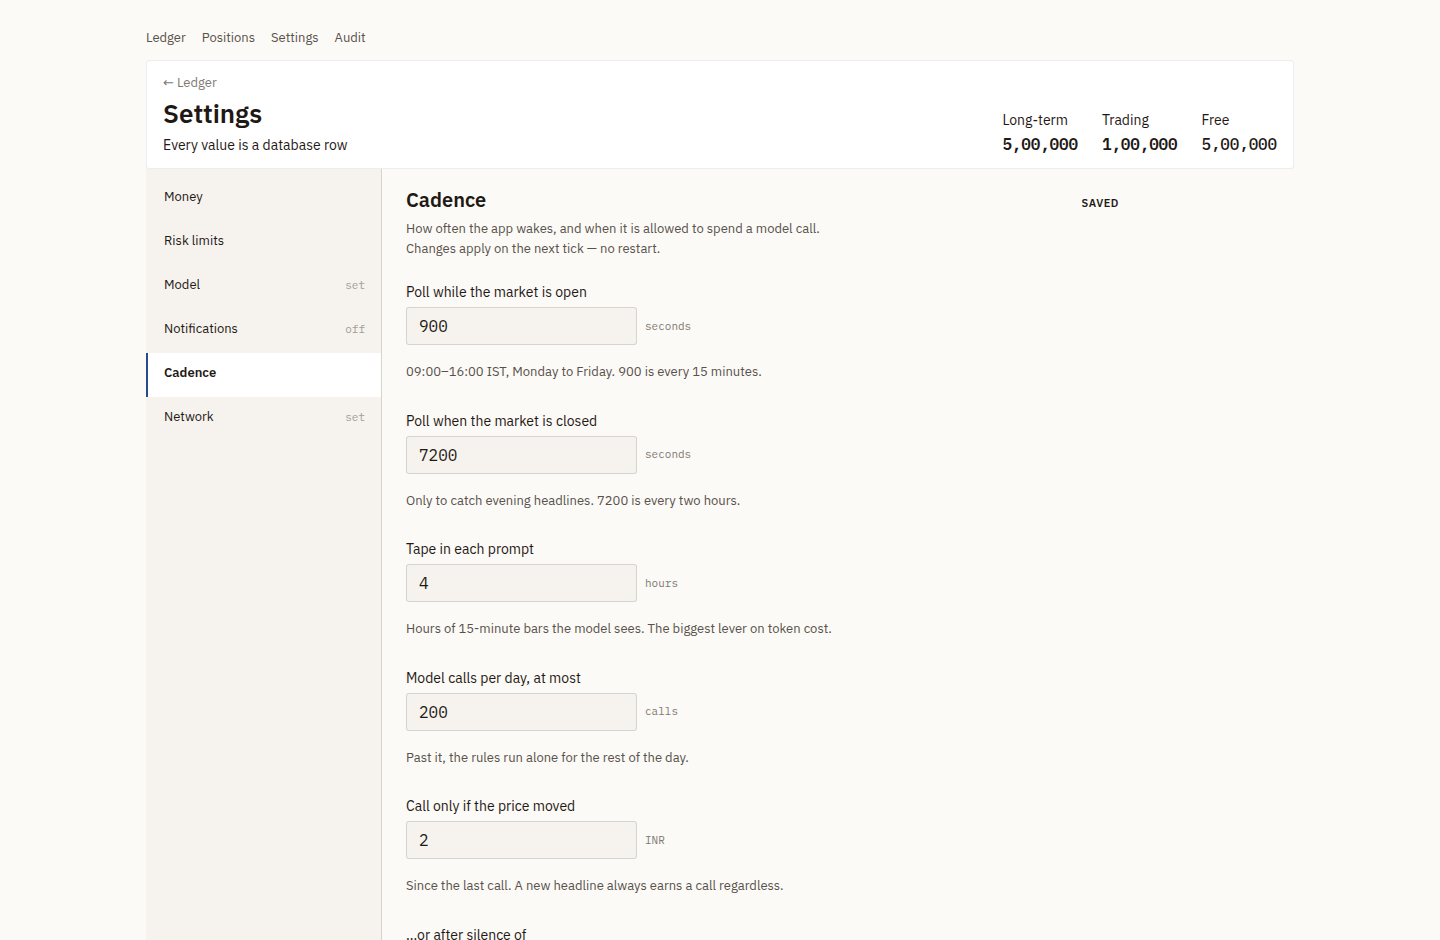
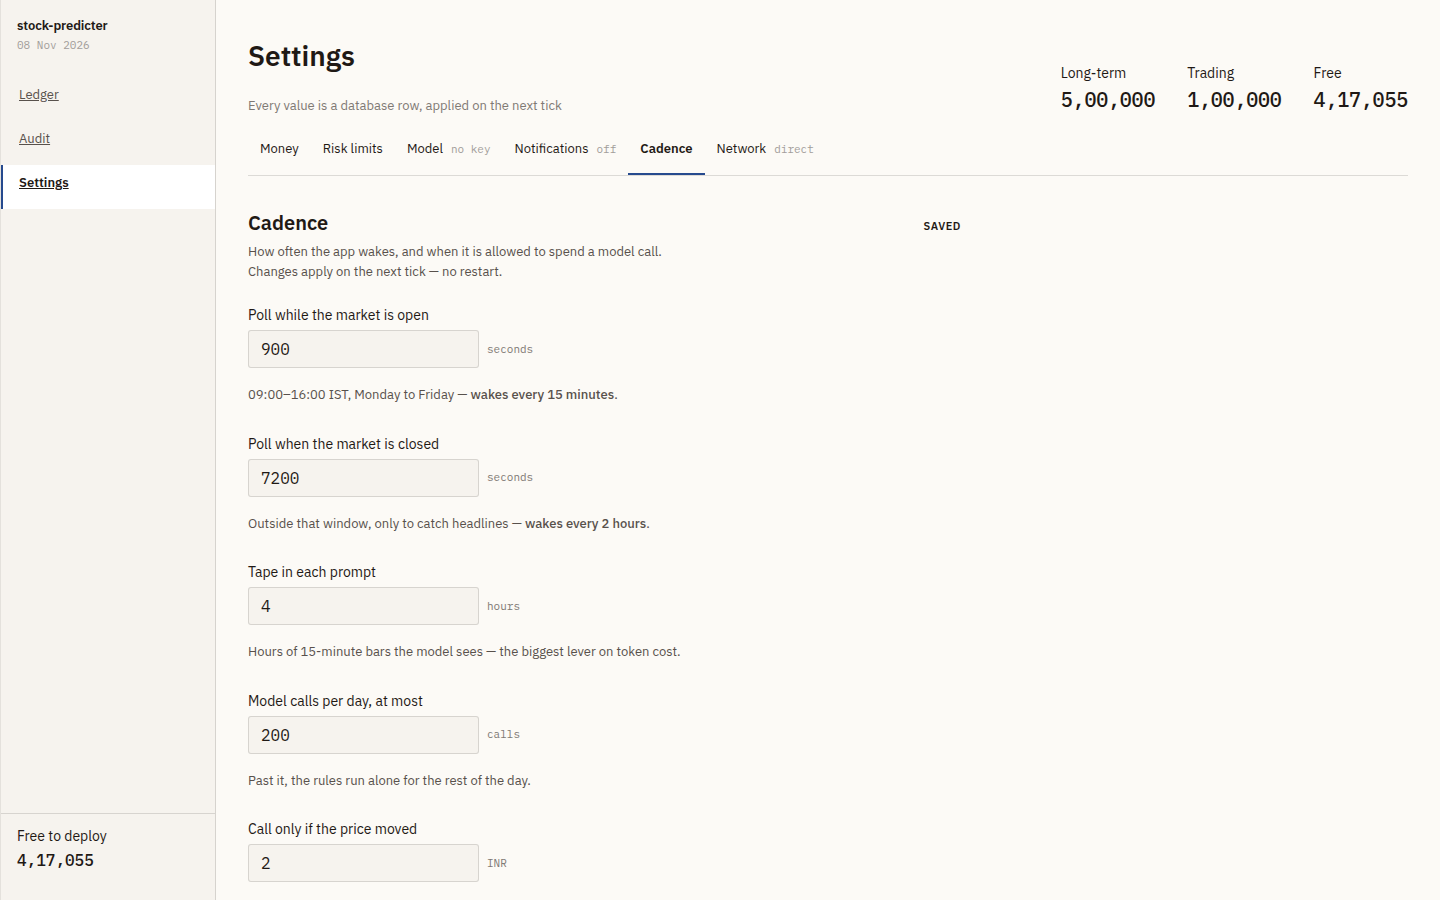
docs: refresh every screenshot for the redesigned pages

diff --git a/README.md b/README.md
@@ -50,7 +50,9 @@ AMFI (India) ───┤ mutual fund NAV                                       
 
 ## Screens
 
-**Ledger** — the portfolio strip, holdings with their latest signal, search-and-add, recent fills.
+**Ledger** — a rail with the free cash always visible, then the whole book: what you paid, what it is
+worth now, the P&L on each holding and its exit plan. **Stocks and mutual funds are separate
+tables**, because a fund has no intraday exit and wants different columns.
 
 ![Ledger](docs/screenshots/ledger.png)
 
@@ -66,10 +68,10 @@ decision above it is the model's, and the validator — not either of them — h
 
 ![Instrument](docs/screenshots/instrument.png)
 
-**Trading pot** — a separate ceiling, a separate book, separate limits. Same instrument set,
-different capital.
+**Audit** — every outbound model call with its prompt and its reply, kept verbatim. Opening a row
+shows the exchange as it happened, so a blocked signal can be reconstructed exactly.
 
-![Trading](docs/screenshots/trading.png)
+![Audit](docs/screenshots/audit.png)
 
 Both kinds of fund code work: AMFI's scheme code (`120503`, NAV from the AMFI list) and Yahoo's
 opaque fund symbol (`0P00012ALS.BO`, a real NAV series). Funds are found by searching the name —
